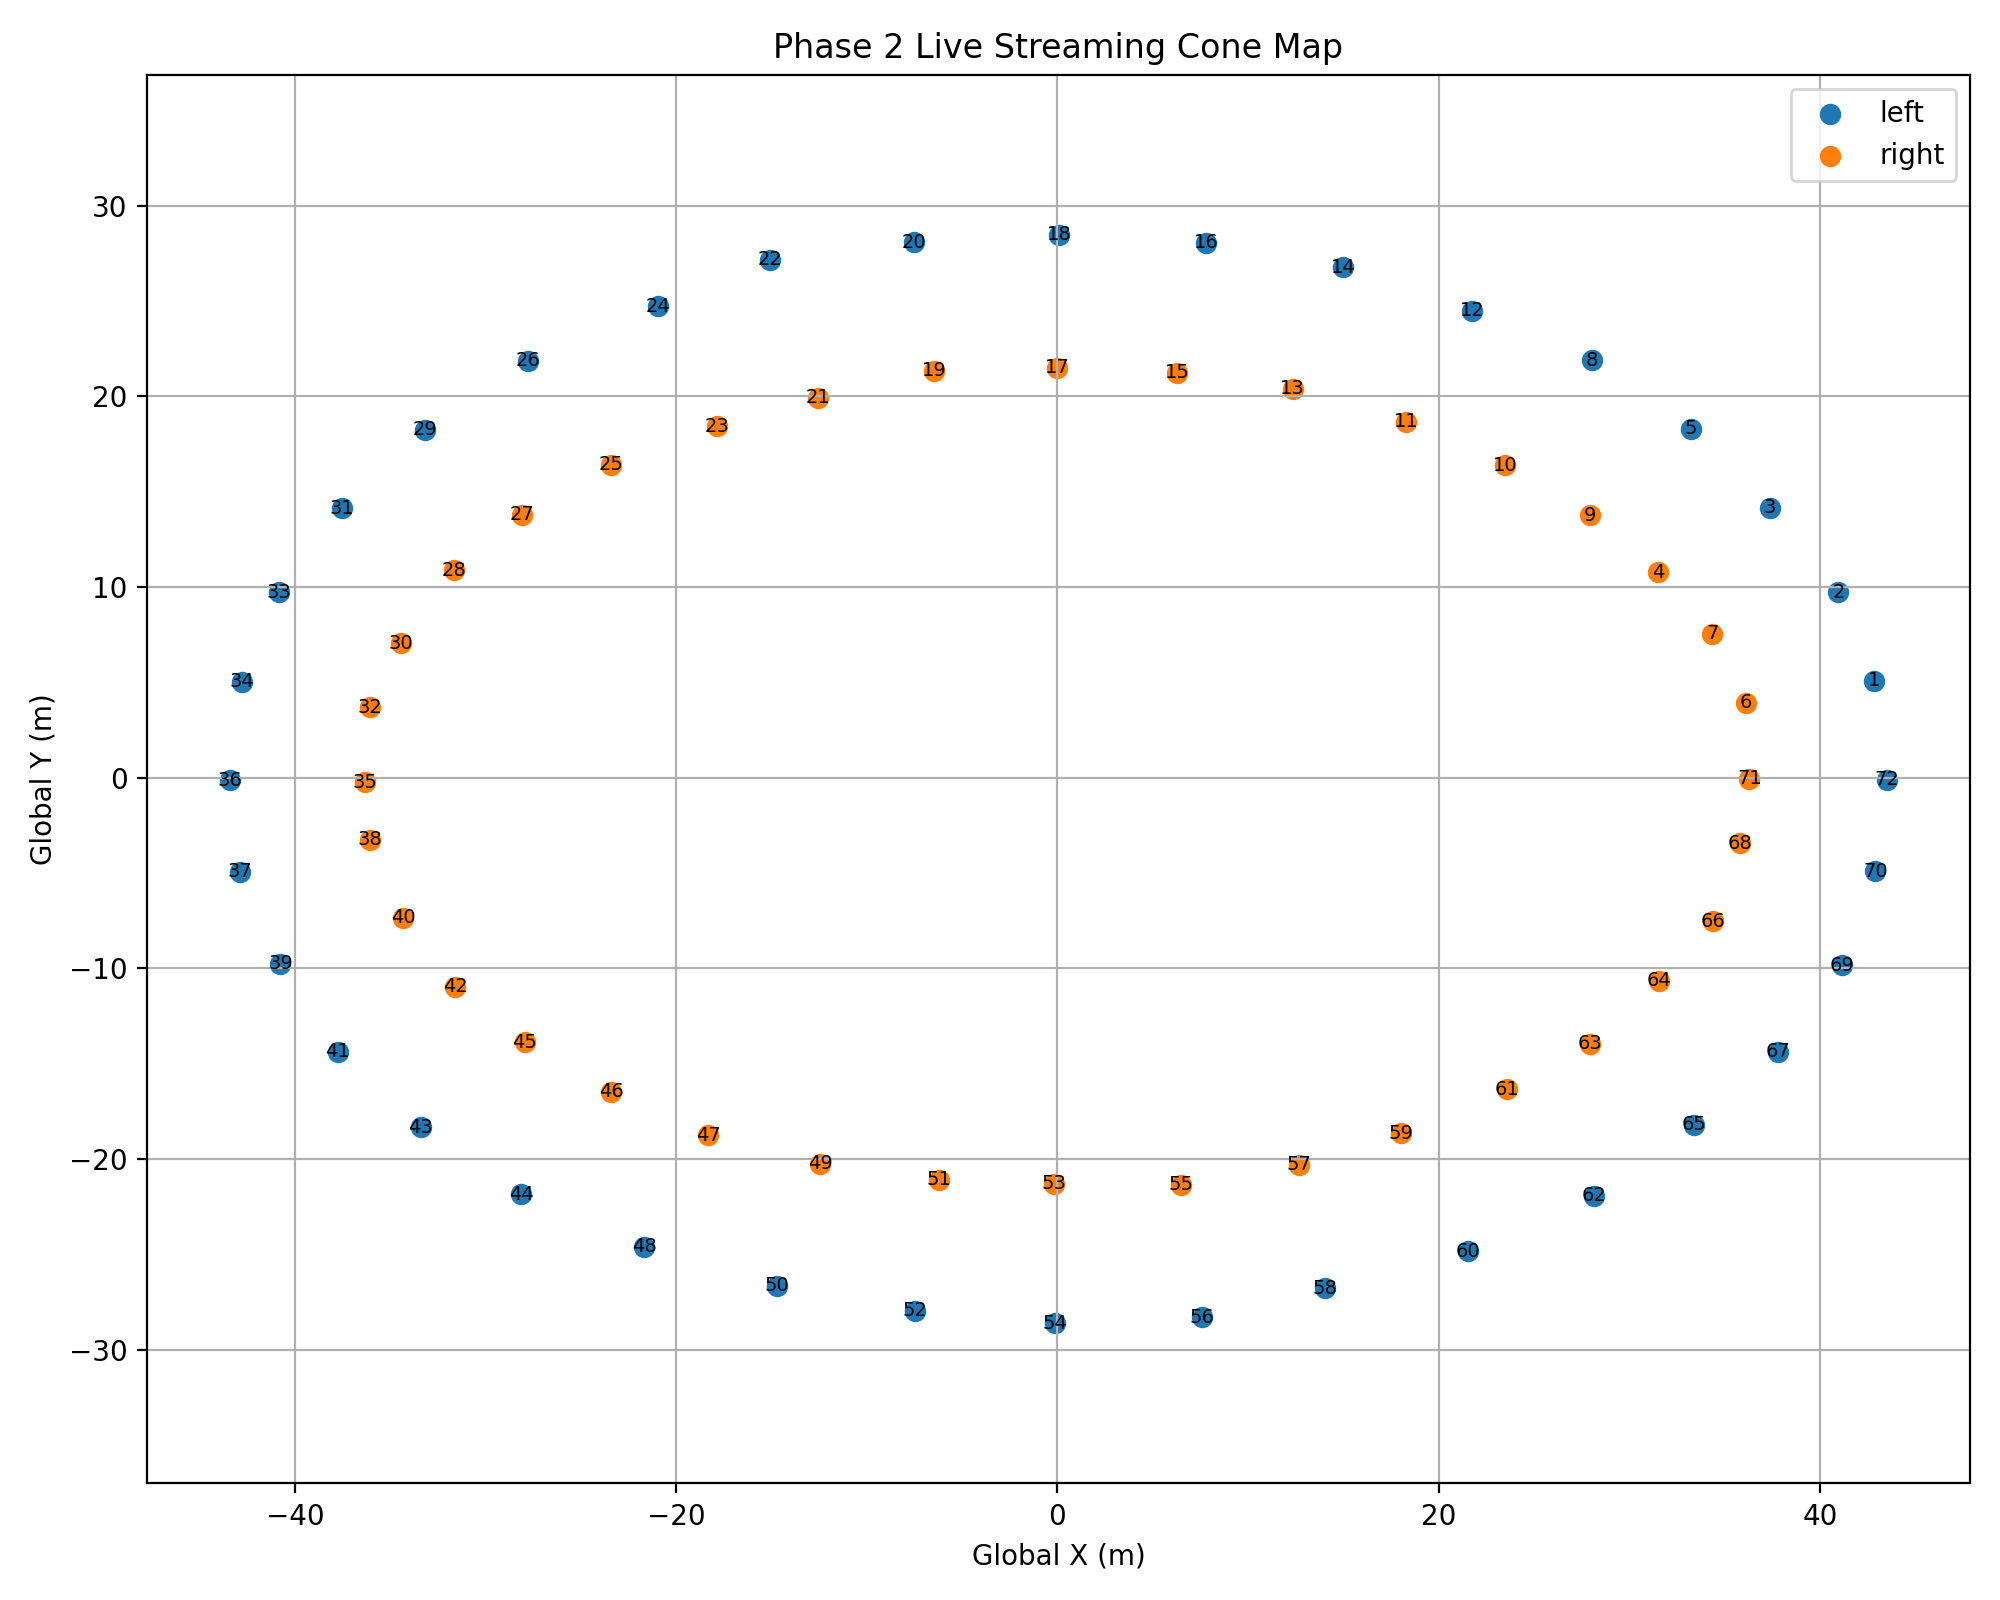
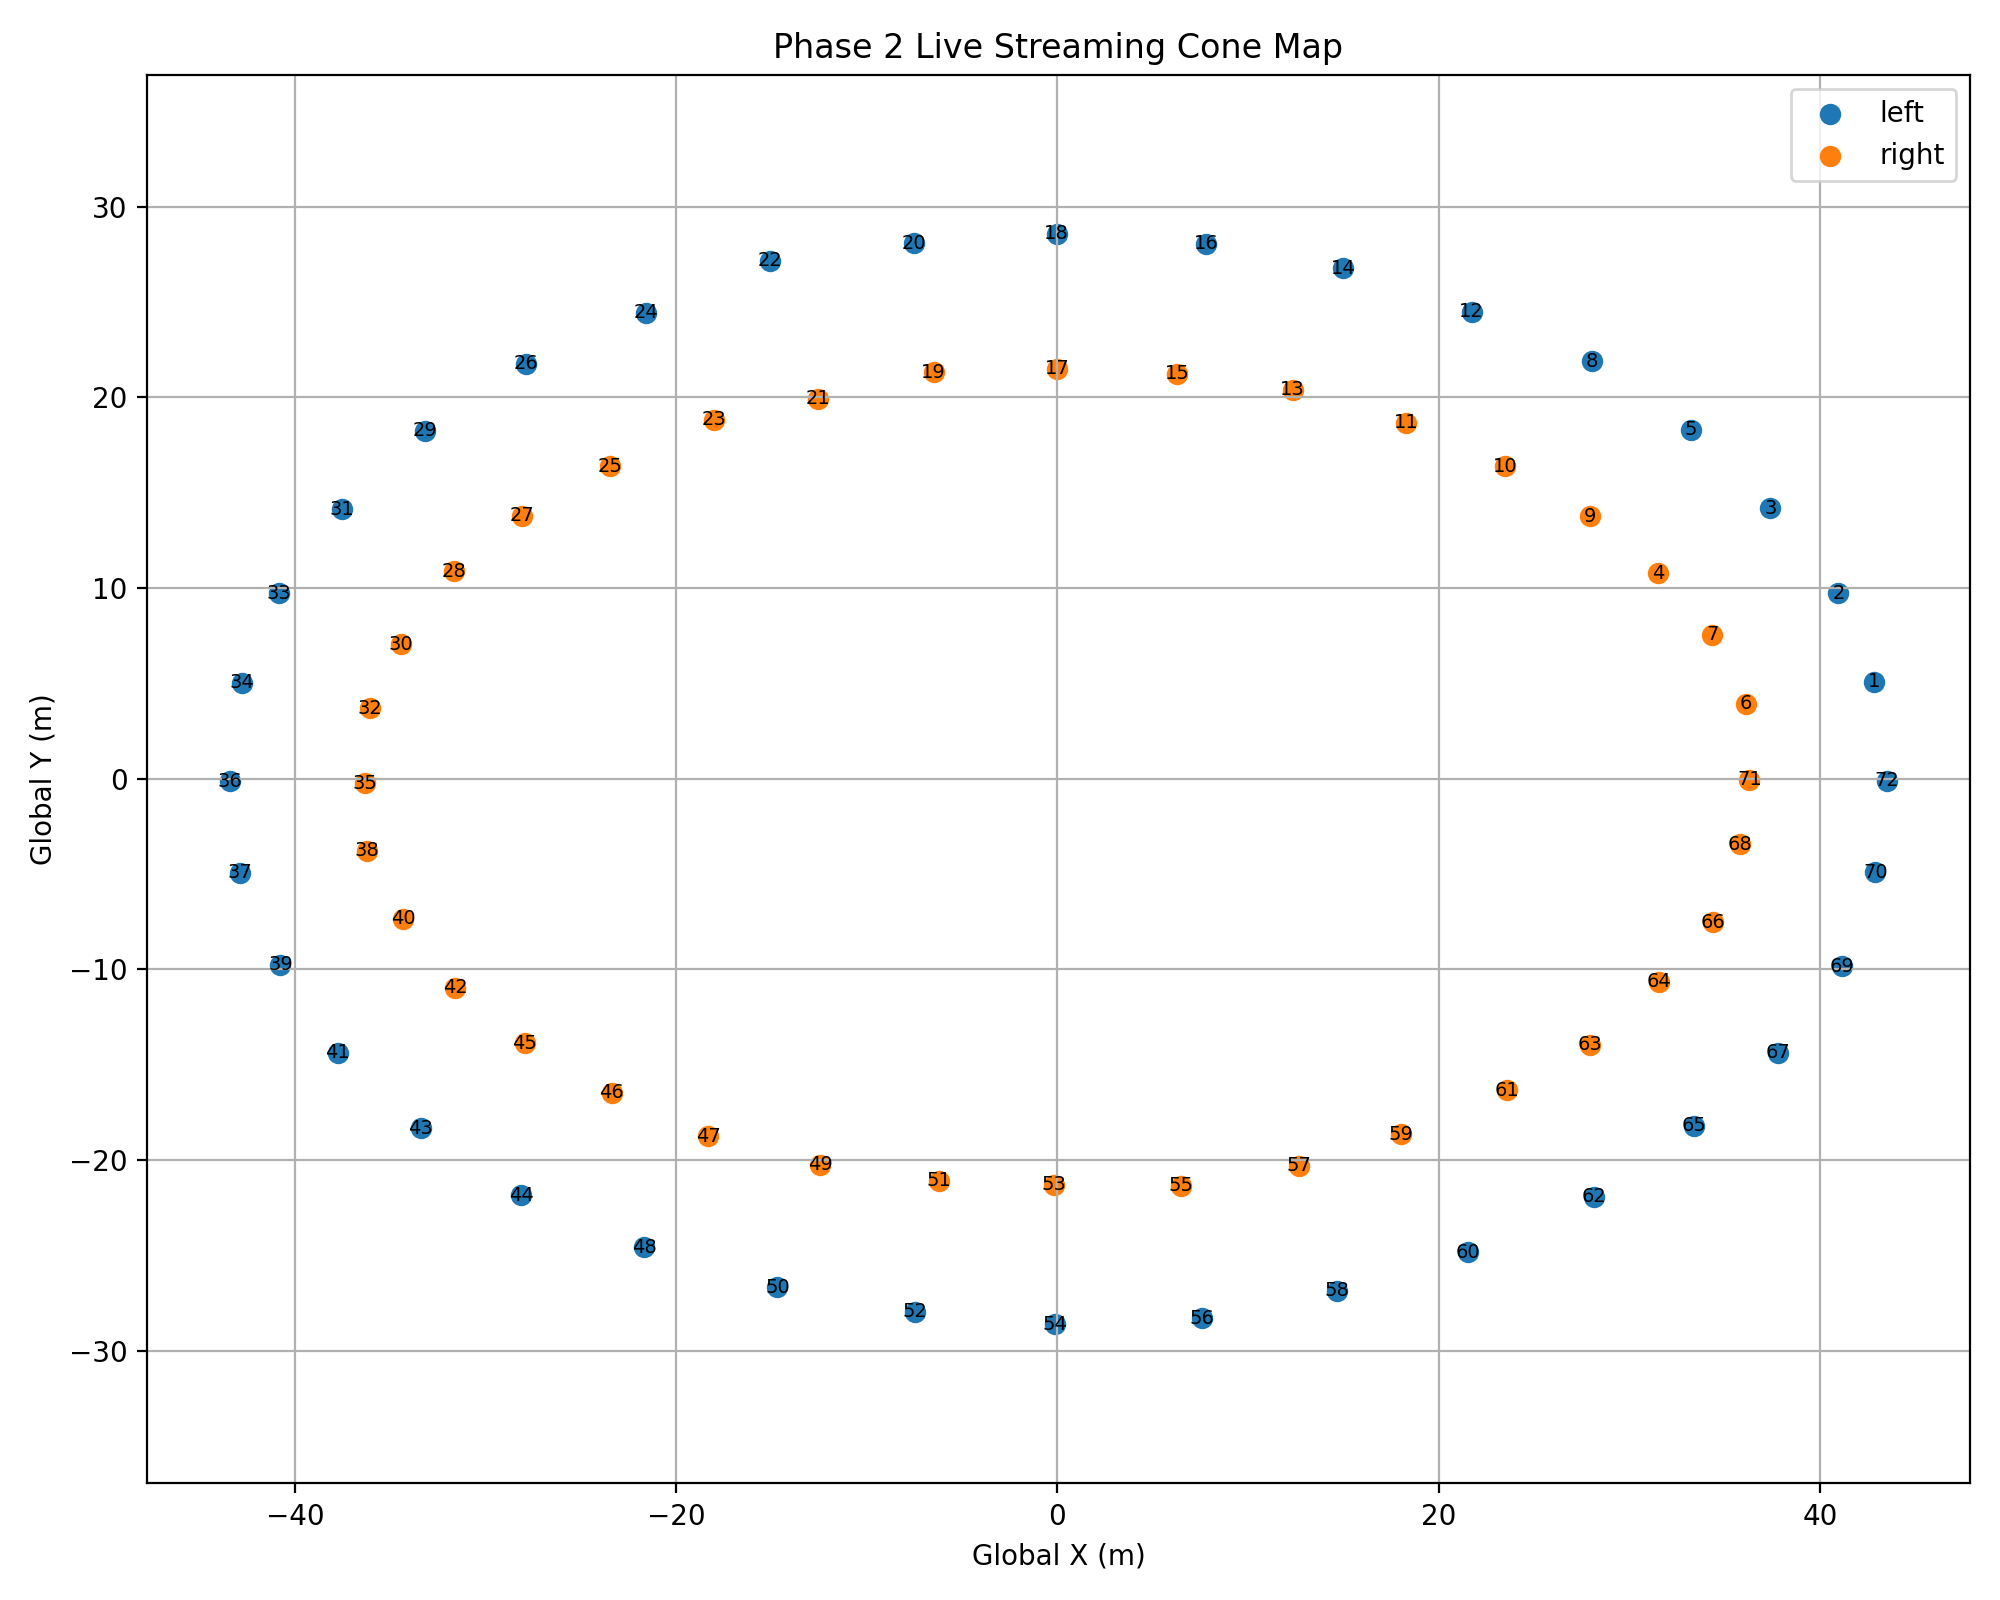
Finalize Phase 2 outputs and gitignore

diff --git a/main.py b/main.py
@@ -82,6 +82,7 @@ print(f"Ghost cones: {len(ghosts)}")
 print(f"Total observations: {len(perception)}")
 print(f"New cone states: {tracker.new_state_count}")
 print(f"Successful associations: {tracker.association_count}")
+print(f"Association Rate: {tracker.association_count / len(perception) * 100:.2f}%")
 print(f"Peak active states: {tracker.peak_active_states}")
 print(f"Promotions: {tracker.promotions}")
 print(f"Demotions: {tracker.demotions}")
